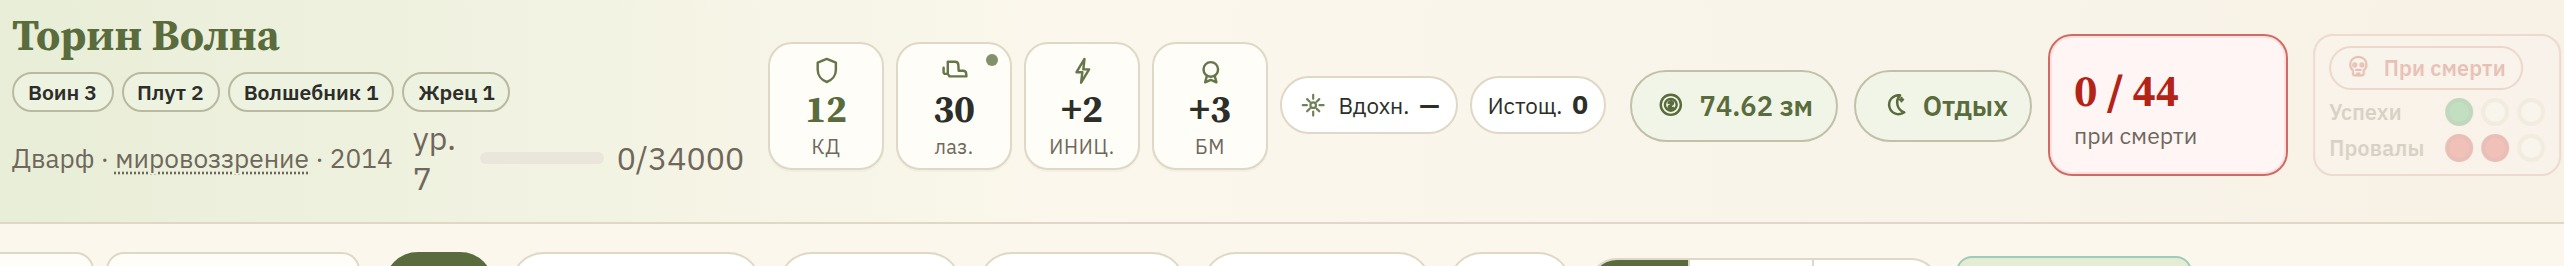
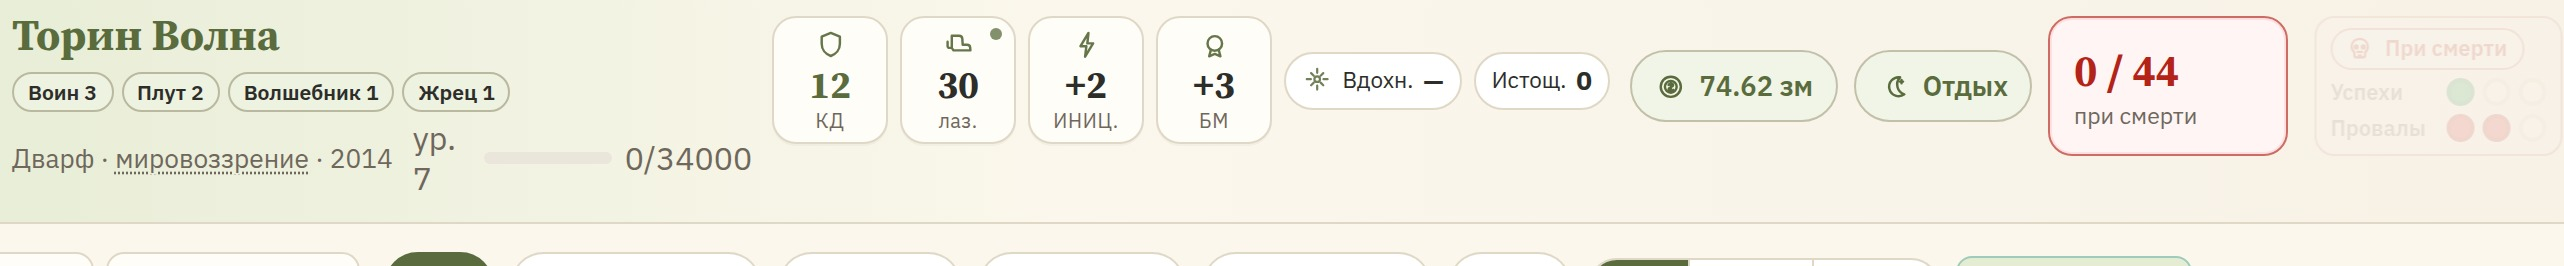
fix(header): top-align vitals into who empty corner

diff --git a/frontend/src/index.css b/frontend/src/index.css
@@ -4412,8 +4412,8 @@ input {
   z-index: 1;
   display: flex;
   flex-wrap: nowrap;
-  align-items: center;
-  gap: 8px 12px;
+  align-items: start;
+  gap: 6px 10px;
   min-width: 0;
   overflow: visible;
 }
@@ -4559,6 +4559,7 @@ button.play-desk-header__xp:hover .play-desk-header__xp-bar {
 .play-desk-header__mid {
   flex: 0 0 auto;
   min-width: 0;
+  padding-top: 2px;
 }
 
 .play-desk-header__chip {
@@ -4808,6 +4809,7 @@ button.play-desk-vital:hover,
   margin-left: auto;
   flex: 0 0 auto;
   min-width: 0;
+  padding-top: 2px;
 }
 
 .play-desk-header__right-tools {
